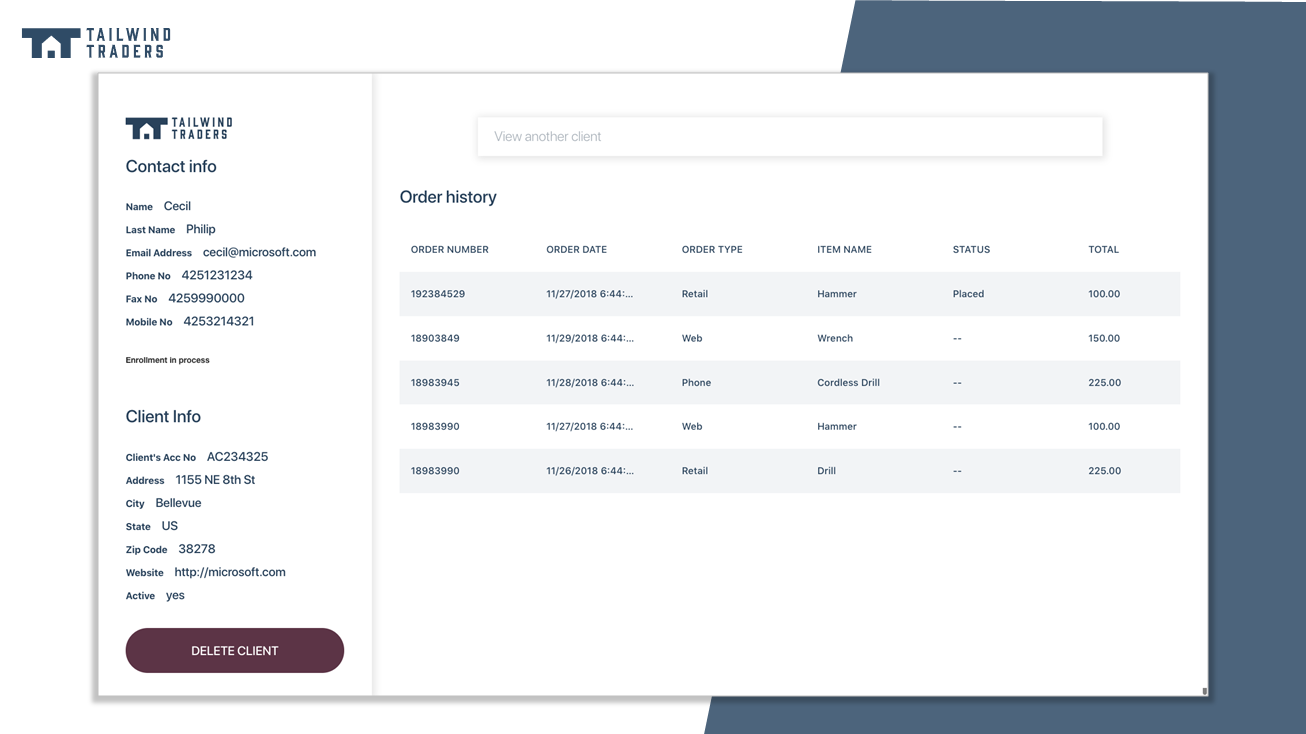
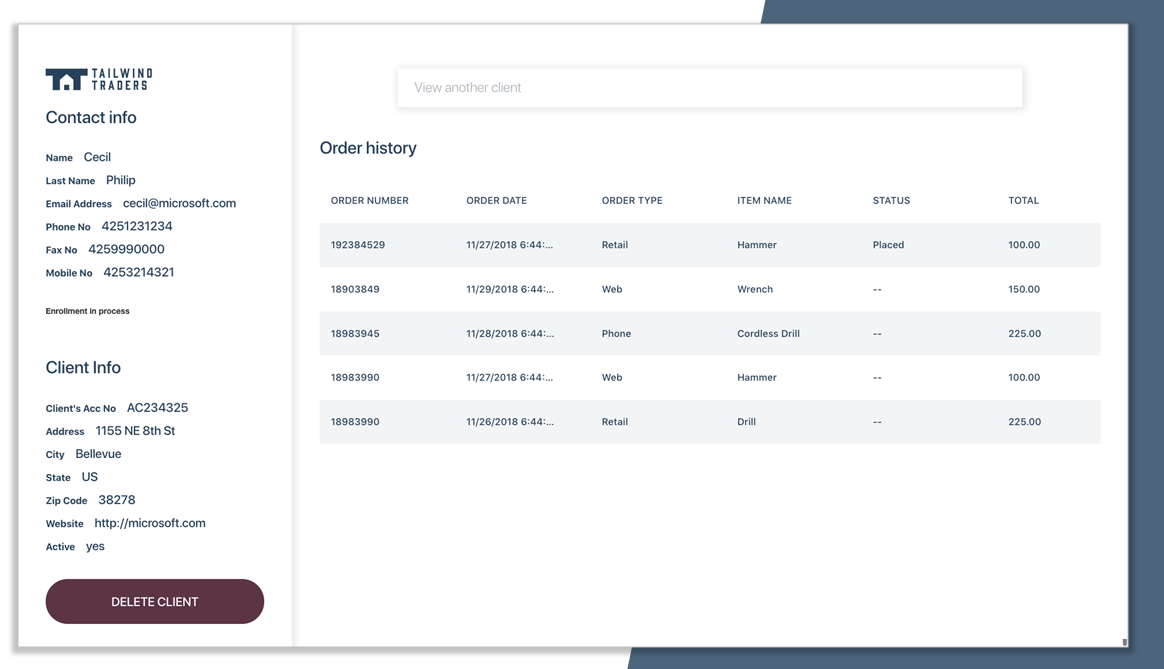
Updating rewards app

diff --git a/Source/Web/Tailwind.Traders.Rewards.Web/Migrations/Configuration.cs b/Source/Web/Tailwind.Traders.Rewards.Web/Migrations/Configuration.cs
@@ -32,69 +32,171 @@ namespace Tailwind.Traders.Rewards.Web.Migrations
             {
                 new Customer {
                     CustomerId = 1,
-                    AccountCode = "TEST 101",
+                    AccountCode = "AC234323",
                     FirstName = "John",
                     LastName = "Doe",
-                    FirstAddress = "100 Thames Valley Park",
-                    City = "Reading",
+                    FirstAddress = "562 Mokice View",
+                    City = "Dundee",
                     Country = "United Kingdom",
-                    ZipCode = "RG6 1PT",
-                    Email = "info@workingdata.co.uk",
+                    ZipCode = "188930",
+                    Email = "john@workingdata.co.uk",
                     FaxNumber = "4259990000",
                     MobileNumber = "4253214321",
                     PhoneNumber = "4251231234",
-                    Website = "",
+                    Website = "http://workingdata.com",
                     Active = true,
                     Enrrolled = EnrollmentStatusEnum.Uninitialized
                 },
                 new Customer {
                     CustomerId = 2,
-                    AccountCode = "AC234325",
-                    FirstName = "Michael",
-                    LastName = "Crump",
-                    FirstAddress = "15010 NE 36th St",
-                    City = "Redmond",
-                    Country = "US",
-                    ZipCode = "98052",
-                    Email = "mcrump@microsoft.com",
+                    AccountCode = "AC234148",
+                    FirstName = "Sophie",
+                    LastName = "Stevenson",
+                    FirstAddress = "1018 Obevir Extension",
+                    City = "Chicago",
+                    Country = "United States",
+                    ZipCode = "184342",
+                    Email = "sophie@workingdata.com",
                     FaxNumber = "4259990000",
                     MobileNumber = "4253214321",
                     PhoneNumber = "4251231234",
-                    Website = "http://microsoft.com",
+                    Website = "http://workingdata.com",
                     Active = true,
                     Enrrolled = EnrollmentStatusEnum.Uninitialized
                 },
                 new Customer {
                     CustomerId = 3,
-                    AccountCode = "OK 104",
-                    FirstName = "Eduard",
-                    LastName = "Tomas",
-                    FirstAddress = "1155 NE 8th St",
-                    City = "Bellevue",
-                    Country = "US",
-                    ZipCode = "038278",
-                    Email = "v-edutom@microsoft.com",
+                    AccountCode = "AC451745",
+                    FirstName = "Trevor",
+                    LastName = "Adkins",
+                    FirstAddress = "1508 Hepik Junction",
+                    City = "Toronto",
+                    Country = "Canada",
+                    ZipCode = "44118",
+                    Email = "trevor@workingdata.com",
                     FaxNumber = "4259990000",
                     MobileNumber = "4253214321",
                     PhoneNumber = "4251231234",
-                    Website = "",
+                    Website = "http://workingdata.com",
                     Active = true,
                     Enrrolled = EnrollmentStatusEnum.Uninitialized
                 },
                 new Customer {
                     CustomerId = 4,
-                    AccountCode = "AC234325",
-                    FirstName = "Cecil",
-                    LastName = "Philip",
-                    FirstAddress = "1155 NE 8th St",
-                    City = "Bellevue",
-                    Country = "US",
+                    AccountCode = "AC761459",
+                    FirstName = "Jessie",
+                    LastName = "Burton",
+                    FirstAddress = "385 Akuehe Trail",
+                    City = "Hobart",
+                    Country = "Australia",
                     ZipCode = "038278",
-                    Email = "cecil@microsoft.com",
+                    Email = "cecil@workingdata.au",
                     FaxNumber = "4259990000",
                     MobileNumber = "4253214321",
                     PhoneNumber = "4251231234",
-                    Website = "http://microsoft.com",
+                    Website = "http://workingdata.com",
+                    Active = true,
+                    Enrrolled = EnrollmentStatusEnum.Uninitialized
+                },
+                new Customer {
+                    CustomerId = 5,
+                    AccountCode = "AC741655",
+                    FirstName = "Steven",
+                    LastName = "Martin",
+                    FirstAddress = "1646 Oriro Loop",
+                    City = "Monterrey",
+                    Country = "Mexico",
+                    ZipCode = "154715",
+                    Email = "steven@workingdata.mx",
+                    FaxNumber = "4259990000",
+                    MobileNumber = "4253214321",
+                    PhoneNumber = "4251231234",
+                    Website = "http://workingdata.com",
+                    Active = true,
+                    Enrrolled = EnrollmentStatusEnum.Uninitialized
+                },
+                new Customer {
+                    CustomerId = 6,
+                    AccountCode = "AC174967",
+                    FirstName = "Darrell",
+                    LastName = "Russell",
+                    FirstAddress = "1155 NE 8th St",
+                    City = "Florida",
+                    Country = "United States",
+                    ZipCode = "108278",
+                    Email = "darrell@workingdata.com",
+                    FaxNumber = "4259990000",
+                    MobileNumber = "4253214321",
+                    PhoneNumber = "4251231234",
+                    Website = "http://workingdata.com",
+                    Active = true,
+                    Enrrolled = EnrollmentStatusEnum.Uninitialized
+                },
+                new Customer {
+                    CustomerId = 7,
+                    AccountCode = "AC714897",
+                    FirstName = "Maria",
+                    LastName = "Gordon",
+                    FirstAddress = "882 Emevo Key",
+                    City = "Sevilla",
+                    Country = "Spain",
+                    ZipCode = "54864",
+                    Email = "maria@workingdata.com",
+                    FaxNumber = "4259990000",
+                    MobileNumber = "4253214321",
+                    PhoneNumber = "4251231234",
+                    Website = "http://workingdata.com",
+                    Active = true,
+                    Enrrolled = EnrollmentStatusEnum.Uninitialized
+                },
+                new Customer {
+                    CustomerId = 8,
+                    AccountCode = "AC783452",
+                    FirstName = "Elijah",
+                    LastName = "Rodriquez",
+                    FirstAddress = "1076 Viero Key",
+                    City = "Rio de Janeiro",
+                    Country = "Brazil",
+                    ZipCode = "038278",
+                    Email = "elijah@workingdata.com",
+                    FaxNumber = "4259990000",
+                    MobileNumber = "4253214321",
+                    PhoneNumber = "4251231234",
+                    Website = "http://workingdata.com",
+                    Active = true,
+                    Enrrolled = EnrollmentStatusEnum.Uninitialized
+                },
+                new Customer {
+                    CustomerId = 9,
+                    AccountCode = "AC122458",
+                    FirstName = "Christina",
+                    LastName = "Meyer",
+                    FirstAddress = "512 Tadta Pass",
+                    City = "New York",
+                    Country = "United States",
+                    ZipCode = "038278",
+                    Email = "christina@workingdata.com",
+                    FaxNumber = "4259990000",
+                    MobileNumber = "4253214321",
+                    PhoneNumber = "4251231234",
+                    Website = "http://workingdata.com",
+                    Active = true,
+                    Enrrolled = EnrollmentStatusEnum.Uninitialized
+                },
+                new Customer {
+                    CustomerId = 10,
+                    AccountCode = "AC458752",
+                    FirstName = "Olivia",
+                    LastName = "Cohen",
+                    FirstAddress = "1916 Pinut Drive",
+                    City = "Toronto",
+                    Country = "Canada",
+                    ZipCode = "458756",
+                    Email = "olivia@workingdata.com",
+                    FaxNumber = "4259990000",
+                    MobileNumber = "4253214321",
+                    PhoneNumber = "4251231234",
+                    Website = "http://workingdata.com",
                     Active = true,
                     Enrrolled = EnrollmentStatusEnum.Uninitialized
                 }

diff --git a/README.md b/README.md
@@ -1,12 +1,20 @@
 # Tailwind Traders Rewards Reference App
 
-<img src="/Documents/Images/Rewards.png" alt="Tailwind Traders Rewards"/>
+![Tailwind Traders Rewards](Documents/Images/Rewards.png)
+
+You can take a look at our live running website following this address: [https://rewards.tailwindtraders.com](https://rewards.tailwindtraders.com) 
+
+[![Build status](https://dev.azure.com/TailwindTraders/Rewards/_apis/build/status/Rewards-CI)](https://dev.azure.com/TailwindTraders/Rewards/_build/latest?definitionId=28)
 
 # Deploy to Azure
 
 We have added an ARM template so you can automate the creation of the resources required for this app.
 
-<a href="https://portal.azure.com/#create/Microsoft.Template/uri/https%3A%2F%2Fraw.githubusercontent.com%2FMicrosoft%2FTailwindTraders-Rewards%2Fmaster%2FDeploy%2Fdeployment.json"><img src="/Documents/Images/deploy-to-azure.png" alt="Deploy to Azure"/></a>
+[![Deploy to Azure](Documents/Images/deploy-to-azure.png)](https://portal.azure.com/#create/Microsoft.Template/uri/https%3A%2F%2Fraw.githubusercontent.com%2FMicrosoft%2FTailwindTraders-Rewards%2Fmaster%2FDeploy%2Fdeployment.json)
+
+# Demo Script
+
+You can find a [demo script](https://github.com/Microsoft/TailwindTraders/tree/master/Documents/DemoScripts/Modernizing%20.NET%20Apps#modernizing-net-apps) with the walkthroughs once you have deployed the Azure resources and cloned the source code of this repository.
 
 # Repositories
 
